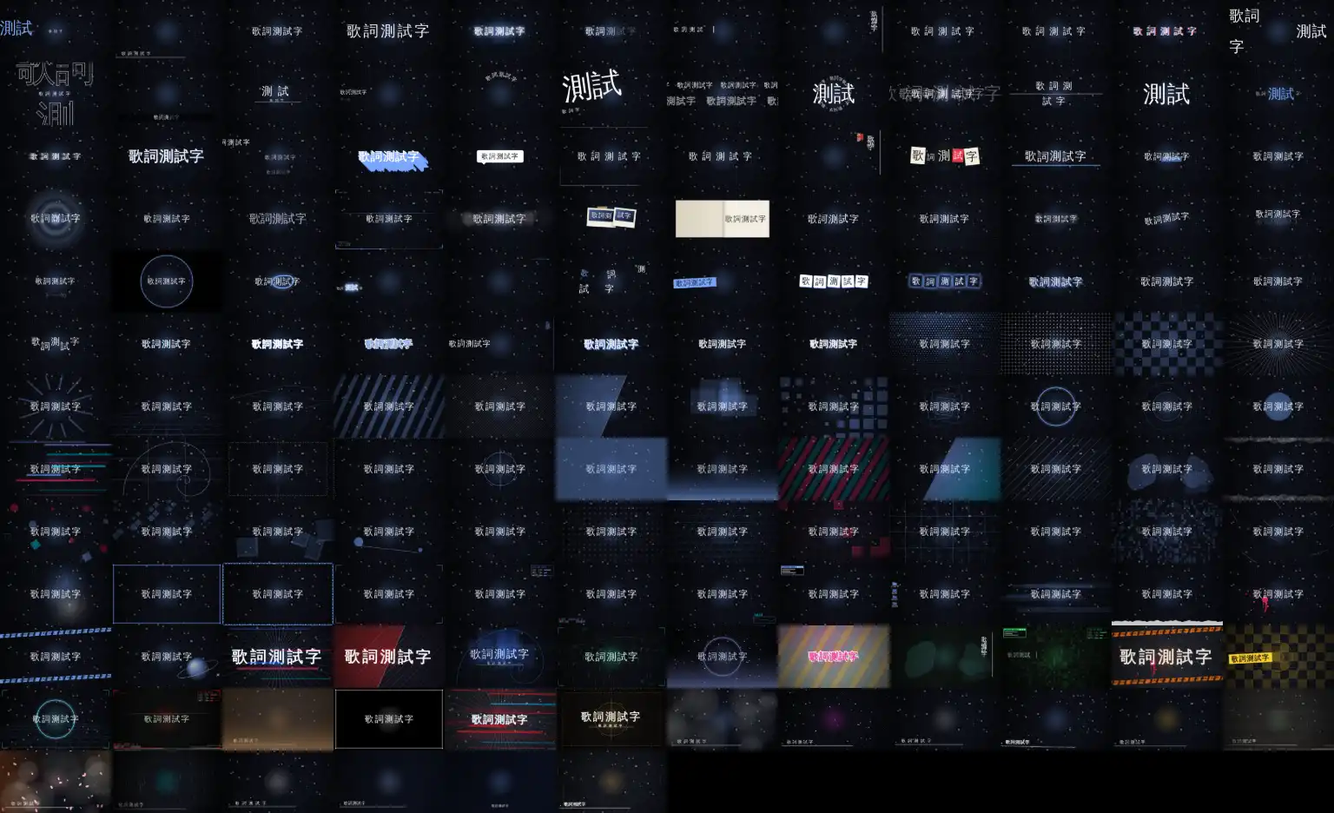
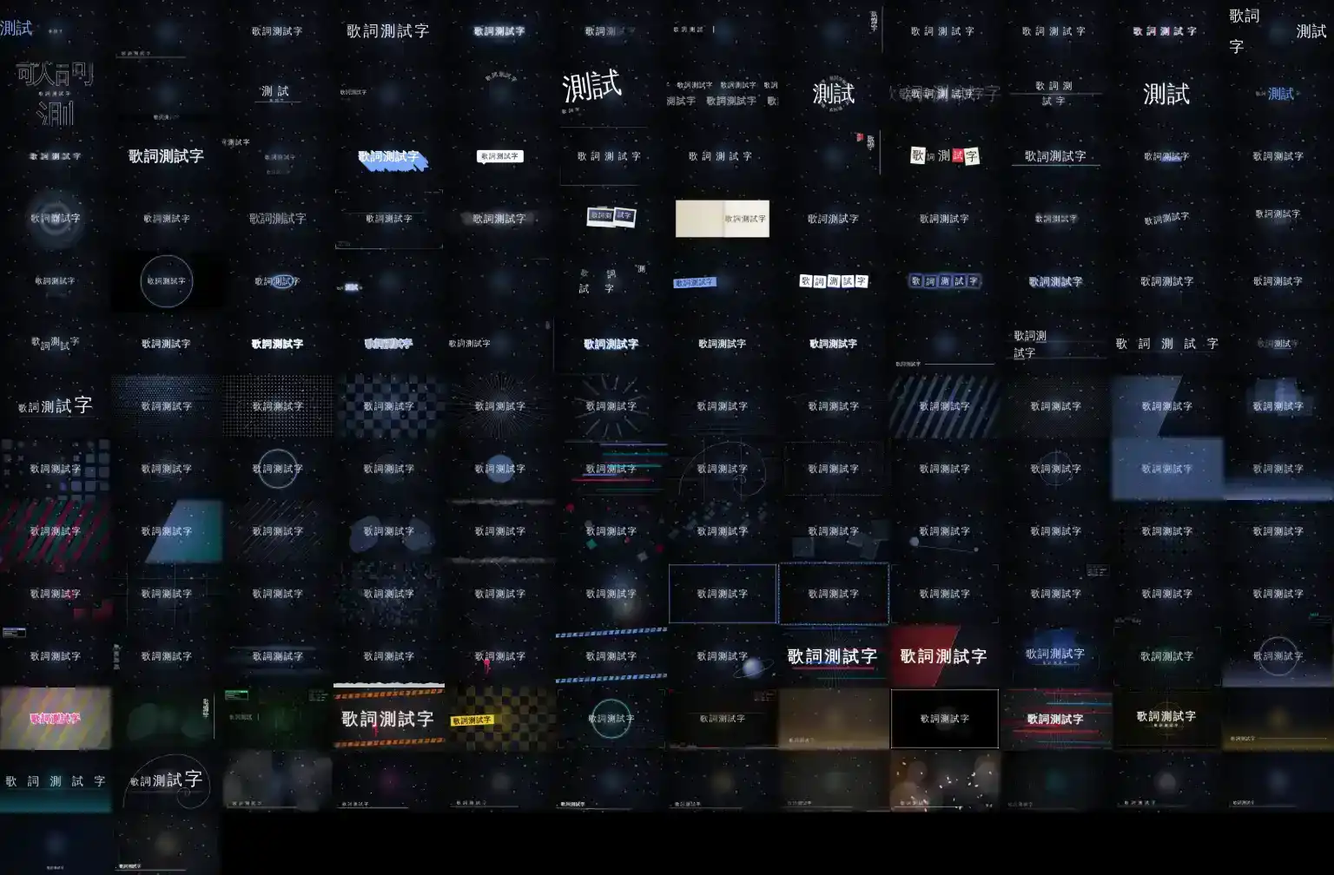
階段 3：5 個文字樣式、4 個鏡頭型持續特效、3 個風格包；package.json license 改 MIT
- @double-line／emphasis-dot／gloss-sweep／shadow-stack／split-tone
- ~cam-pull／cam-pan-l／cam-pan-r／cam-tilt-up
- 風格包 金夜／深海／單色座標（取 JIZURA schemes[0] 的 fg／accent，無背景色）
- 手冊、README、縮圖（含階段 1 五個版型）、test/styles.mjs 包數 16→19

Claude-Session: https://claude.ai/code/session_01EnX78DwoedcJ9XfRZGxrW4

diff --git a/index.html b/index.html
@@ -25,6 +25,7 @@ html,body{margin:0;height:100%;background:#050608;color:var(--c);overflow:hidden
 #L{position:absolute;inset:0}
 .w{position:absolute;inset:0}
 .ch{display:inline-block;white-space:pre}
+[data-dl]{position:relative}[data-dl]::after{content:attr(data-dl);position:absolute;left:0;top:0;white-space:pre;color:transparent;-webkit-text-stroke:.03em var(--c);paint-order:normal}
 #bar{position:fixed;top:0;left:0;right:0;display:flex;gap:8px;align-items:center;padding:8px 12px;background:rgba(10,12,20,.85);font-size:13px;z-index:5}
 button,select,input[type=file]{font:inherit;color:#fff;background:#232a44;border:1px solid #3a4470;border-radius:4px;padding:4px 10px}
 #seek{flex:1}
@@ -879,6 +880,12 @@ Object.assign(FXH,{
   A(e,[{letterSpacing:(ls-.03*fs)+"px"},{letterSpacing:(ls+.03*fs)+"px"}],{duration:2500,iterations:Infinity,direction:"alternate",easing:"ease-in-out"})})},
  "zoom-slow"(fw,dur){A(fw,[{scale:1},{scale:1.06}],{duration:dur*1000,easing:"linear"})},
  "focus-rack"(fw,dur){const l=cl(fw);if(!l.length)return;const t=dur*1000/l.length;l.forEach((c,i)=>A(c,[{filter:"blur(0)"},{filter:"blur(1.5px)",offset:.5},{filter:"blur(0)"}],{duration:t*1.6,delay:i*t,easing:"linear"}))}});
+Object.assign(FXH,{   /* 鏡頭型（概念參考 JIZURA 鏡頭，MIT）：只動字幕容器 fw，用獨立屬性 scale／translate，位移 <3% 畫面 */
+ "cam-pull"(fw,dur){A(fw,[{scale:1.06},{scale:1}],{duration:dur*1000,easing:"linear"})},
+ "cam-pan-l"(fw,dur){A(fw,[{translate:"1.5cqw 0"},{translate:"-1.5cqw 0"}],{duration:dur*1000,easing:"linear"})},
+ "cam-pan-r"(fw,dur){A(fw,[{translate:"-1.5cqw 0"},{translate:"1.5cqw 0"}],{duration:dur*1000,easing:"linear"})},
+ "cam-tilt-up"(fw,dur){A(fw,[{translate:"0 1.5cqh"},{translate:"0 -1.5cqh"}],{duration:dur*1000,easing:"linear"})}});
+FXS.push("cam-pull","cam-pan-l","cam-pan-r","cam-tilt-up");
 ENTERS.push("blur-stagger","track-in","skew-in","wipe","clock-wipe","neon-on");EXITS.push("vacuum","sweep-cover","wipe-out","clock-out");FXS.push("breathe","track-breathe","zoom-slow","focus-rack");
 /* ===== [UI-EDITOR] 預設組合表 PRESETS / 隨機化 randomize / 帶標記 SRT 的產生與匯出（tc・tag・srtText・exportSRT）；句子編輯器本體 editor() 在下方 [EXPORT] 區段 ===== */
 const PRESETS={動畫PV:{font:"圓體",pulse:.05,accent:"#7aa8ff",weight:300,spacing:.5},霓虹夜:{font:"黑體",pulse:.07,accent:"#ff2bd6",weight:300,spacing:.3,dim:60},
@@ -1575,6 +1582,7 @@ const tEls=c=>[...c.querySelectorAll("[data-t]")];
 const isV=e=>/^vertical/.test(e.style.writingMode||"");
 const charify=c=>{tEls(c).forEach(e=>{if(!isV(e)&&!e.querySelector(".ch")&&!e.children.length&&e.textContent.trim()){const t=e.textContent;e.textContent="";chars(t,e)}});return[...c.querySelectorAll(".ch")]};
 const addSh=(e,s)=>{e.style.textShadow=[e.style.textShadow,s].filter(Boolean).join(",")};
+const _lv=e=>{const c=[...e.querySelectorAll(".ch")];return c.length?c:[e]};   /* 逐字拆開時，背景裁字／偽元素要畫在每個字上（同 gradient-flow） */
 const ST={
  neon:e=>addSh(e,"0 0 .06em #fff,0 0 .3em var(--a),0 0 .7em var(--a),0 0 1.4em var(--a)"),
  "glow-soft":e=>addSh(e,"0 0 .3em rgba(255,255,255,.45),0 0 .9em color-mix(in srgb,var(--a) 70%,transparent)"),
@@ -1582,11 +1590,20 @@ const ST={
  longshadow:e=>addSh(e,Array.from({length:30},(_,i)=>`${(i+1)*.022}em ${(i+1)*.022}em 0 color-mix(in srgb,var(--a) 55%,#000)`).join(",")),
  trail:e=>addSh(e,Array.from({length:8},(_,i)=>`${-(i+1)*.05}em 0 ${(i+1)*.012}em rgba(255,255,255,${(.34-i*.04).toFixed(2)})`).join(",")),
  outline:e=>{e.style.color="transparent";e.style.webkitTextStroke=".04em var(--c)"},
- stamp:e=>Object.assign(e.style,{border:".07em solid var(--a)",color:"var(--a)",padding:".08em .3em",width:"fit-content",marginInline:"auto",rotate:"-4deg",borderRadius:".1em"})
+ stamp:e=>Object.assign(e.style,{border:".07em solid var(--a)",color:"var(--a)",padding:".08em .3em",width:"fit-content",marginInline:"auto",rotate:"-4deg",borderRadius:".1em"}),
+ /* ---- 階段 3 新增（概念參考 JIZURA 文字加工，MIT；自行以 CSS 實作）---- */
+ "double-line":e=>{_lv(e).forEach(x=>{x.style.color="transparent";x.style.webkitTextStroke=".12em var(--a)";x.style.paintOrder="stroke fill";x.dataset.dl=x.textContent})},   /* 二重縁：外層粗描邊（強調色）＋偽元素 ::after（style.css）疊細描邊（字色） */
+ "emphasis-dot":e=>{e.style.textEmphasis="filled dot var(--a)";e.style.webkitTextEmphasis="filled dot var(--a)";e.style.textEmphasisPosition=isV(e)?"over right":"over"},
+ "shadow-stack":e=>addSh(e,".04em 0 0 color-mix(in srgb,var(--a) 70%,transparent),.08em 0 0 color-mix(in srgb,var(--a) 45%,transparent),.12em 0 0 color-mix(in srgb,var(--a) 22%,transparent)"),
+ "split-tone":e=>_lv(e).forEach(x=>{x.style.backgroundImage="linear-gradient(180deg,var(--c) 50%,var(--a) 50%)";x.style.webkitBackgroundClip=x.style.backgroundClip="text";x.style.color="transparent";x.style.webkitTextFillColor="transparent"})
 };
 const STC={
  gradient:c=>{tEls(c).filter(isV).forEach(e=>{e.style.background="linear-gradient(180deg,var(--c),var(--a))";e.style.webkitBackgroundClip=e.style.backgroundClip="text";e.style.color="transparent"});const ch=charify(c),n=Math.max(1,ch.length-1);ch.forEach((x,i)=>{x.style.color=`color-mix(in srgb,var(--c) ${Math.round(100-i/n*100)}%,var(--a))`})},
  karaoke:(c,sb,dur)=>{tEls(c).filter(isV).forEach(e=>{e.style.background="linear-gradient(180deg,#fff 50%,rgba(255,255,255,.3) 50%)";e.style.backgroundSize="100% 200%";e.style.webkitBackgroundClip=e.style.backgroundClip="text";e.style.color="transparent";A(e,[{backgroundPosition:"0 100%"},{backgroundPosition:"0 0"}],{duration:dur*1000,easing:"linear"})});const ch=charify(c),n=Math.max(1,ch.length),t=dur*1000/n;ch.forEach((x,i)=>{x.style.color="rgba(255,255,255,.3)";A(x,[{color:"rgba(255,255,255,.3)"},{color:"#fff",textShadow:"0 0 .4em var(--a)"}],{duration:t,delay:i*t,easing:"linear"})})},
+ "gloss-sweep":(c,sb,dur)=>{   /* 光澤掃過：每個字畫亮帶漸層（不畫在父層），逐字延遲掃一次，不循環 */
+  const ch=charify(c),els=ch.length?ch:tEls(c).filter(isV);
+  els.forEach((x,i)=>{x.style.backgroundImage="linear-gradient(100deg,var(--c) 38%,#fff 50%,var(--c) 62%)";x.style.backgroundSize="300% 100%";x.style.webkitBackgroundClip=x.style.backgroundClip="text";x.style.color="transparent";x.style.webkitTextFillColor="transparent";
+   A(x,[{backgroundPosition:"100% 0"},{backgroundPosition:"0% 0"}],{duration:900,delay:D()*.6+i*70,easing:"ease-in-out"})})},
  glitch:c=>{const b="drop-shadow(-.04em 0 rgba(255,40,90,.85)) drop-shadow(.04em 0 rgba(0,220,255,.85))",s="steps(1,end)";
   tEls(c).forEach((e,i)=>A(e,[{translate:"0 0",filter:"none",easing:s},{translate:".02em 0",filter:b,offset:.06,easing:s},{translate:"-.03em .01em",filter:b,offset:.09,easing:s},{translate:"0 0",filter:"none",offset:.12,easing:s},{translate:"-.015em 0",filter:b,offset:.56,easing:s},{translate:"0 0",filter:"none",offset:.59}],{duration:1800+i*230,iterations:Infinity}))}
 };
@@ -2200,6 +2217,13 @@ regPack("歇斯底里之夜",{font:"英文展示",weight:800,spacing:.04,color:"
  sceneAll:"glitch-bars:70,burst:45,smear-brush:40",layoutPool:"noise-text,glitch,shatter-text,crayon-shatter,flash-words",beatShake:3,beatTilt:2,beatHue:30,beatZoom:5});
 regPack("戒尺",{font:"明體",weight:600,spacing:.15,color:"#f4efe6",accent:"#c8a24a",bgMode:"solid",bgColor:"#14110d",pulse:.02,bounce:4,flash:0,trans:"crossfade",particles:0,grain:.05,
  sceneAll:"ruler:55,dashed-lines:45,target:35",layoutPool:"poster,subtitle-box,annotate,strip,lowerleft"});
+/* 階段 3：JIZURA 風格取 schemes[0] 的 fg／accent（不帶背景色），字體只用 FONTS 既有鍵，版型池用階段 1 的 LAB 版型（概念參考 JIZURA，MIT） */
+regPack("金夜",{font:"明體",weight:500,spacing:.22,color:"#F3E7C4",accent:"#D4AF37",dim:50,pulse:.02,bounce:3,flash:0,speed:.85,trans:"crossfade",particles:0,vignette:.5,
+ sceneAll:"dashed-lines:30,gradient-fade:35",layoutPool:"margin,baseline,line-focus"});
+regPack("深海",{font:"圓體",weight:300,spacing:.3,color:"#E4FAFF",accent:"#1FD2E6",dim:55,pulse:.02,bounce:3,flash:0,speed:.85,trans:"crossfade",particles:0,vignette:.4,
+ sceneAll:"flow-lines:35,gradient-fade:35",layoutPool:"full-track,margin"});
+regPack("單色座標",{font:"等寬",weight:400,spacing:.12,color:"#FFFFFF",accent:"#FFFFFF",dim:50,pulse:.02,bounce:0,flash:0,trans:"cut",particles:0,
+ sceneAll:"guides:35",layoutPool:"scale-steps,baseline"});
 /* 離開風格包時要還原的欄位（只在「上一個套用的是風格包」時才還原，舊預設之間的行為完全不變） */
 const PACK_KEEP=["color","bgMode","bgColor","ghostOn","ghostA","ghostB","sceneAll","layoutPool","beatShake","beatZoom","beatTilt","beatHue","dim","vignette","speed","flash","bounce","pulse","weight","spacing","accent","auto","textShadow","lock"];
 
@@ -2550,7 +2574,7 @@ if(RENDER){
 window.__ready=document.fonts.ready.then(()=>true);
 }else requestAnimationFrame(t=>{lastP=t;loop(t)});
 /* ===== [THUMBS-IDX] 縮圖精靈圖索引（由 test/make-thumbs.mjs 產生，請勿手改；邏輯在 28-thumbs.js）===== */
-var TH_DATA={w:128,h:72,cols:12,v:"9b7bb427",idx:"lay:split,lay:lowerleft,lay:bounce,lay:slam,lay:neon,lay:karaoke,lay:typewriter,lay:vertical,lay:blurfocus,lay:wipe,lay:glitch,lay:stack,lay:outline-big,lay:subtitle-box,lay:poster,lay:scroll,lay:orbit,lay:diagonal,lay:marquee,lay:circle-badge,lay:zoom-tunnel,lay:split-screen,lay:flash-words,lay:keyword,lay:trail,lay:text-mask,lay:danmaku,lay:longshadow,lay:bubble,lay:border-run,lay:blinds,lay:hanko,lay:collage,lay:handwrite,lay:marker,lay:center,lay:ripple-pool,lay:constellation,lay:particle-form,lay:hud-frame,lay:parallax-depth,lay:polaroid,lay:page-flip,lay:ink-bleed,lay:laser-scan,lay:split-flap,lay:wave-path,lay:mirror-reflect,lay:cylinder,lay:iris-frame,lay:annotate,lay:pv-lyric,lay:pv-vertical,lay:scatter,lay:strip,lay:cards,lay:glow-cards,lay:layered,lay:falling,lay:formula,lay:staggered-text,lay:noise-text,lay:victim-outline,lay:cute-outline,lay:vertical-sub,lay:hero-text,lay:shatter-text,lay:crayon-shatter,scene:halftone,scene:dots,scene:checker,scene:burst,scene:radial-rects,scene:perspective-grid,scene:flow-lines,scene:stripes,scene:hatch,scene:diag-split,scene:blocks,scene:breathing-blocks,scene:squares,scene:glow-ring,scene:rings,scene:pulse-circle,scene:glitch-bars,scene:guides,scene:dashed-lines,scene:ruler,scene:target,scene:color-wash,scene:gradient-fade,scene:pink-stripes,scene:diag-fill,scene:diag-structure,scene:organic-blob,scene:edge-clouds,scene:scattered-shapes,scene:diamond-shapes,scene:shadow-shapes,scene:balancing-circles,scene:web-lines,scene:cross-pattern,scene:triangle-grid,scene:pink-grid,scene:jigsaw-grid,scene:texture-bg,scene:pixel-bg,scene:star-trail,scene:light-spot,scene:screen-border,scene:scalloped-border,scene:hud-corners,scene:hud-info,scene:hud-status,scene:data-monitors,scene:pixel-window,scene:desktop-icon,scene:smear-brush,scene:paper-tear,scene:blood-splatter,scene:crime-tape,scene:planet,pack:藍色衝擊,pack:斬擊,pack:藍色構成,pack:城市文字雨,pack:夜色,pack:波普,pack:青墨,pack:電腦,pack:戰場,pack:幾何,pack:全息,pack:賽博監控,pack:情緒電影,pack:剪影極簡,pack:歇斯底里之夜,pack:戒尺,preset:動畫PV,preset:霓虹夜,preset:簡約明體,preset:強烈節奏,preset:遊戲PV,preset:復古VHS,preset:櫻花日系,preset:賽博龐克,preset:極簡海報,preset:仿PV歌詞,preset:電影字幕（底部置中）,preset:街頭拼貼"};
+var TH_DATA={w:128,h:72,cols:12,v:"e53f54a0",idx:"lay:split,lay:lowerleft,lay:bounce,lay:slam,lay:neon,lay:karaoke,lay:typewriter,lay:vertical,lay:blurfocus,lay:wipe,lay:glitch,lay:stack,lay:outline-big,lay:subtitle-box,lay:poster,lay:scroll,lay:orbit,lay:diagonal,lay:marquee,lay:circle-badge,lay:zoom-tunnel,lay:split-screen,lay:flash-words,lay:keyword,lay:trail,lay:text-mask,lay:danmaku,lay:longshadow,lay:bubble,lay:border-run,lay:blinds,lay:hanko,lay:collage,lay:handwrite,lay:marker,lay:center,lay:ripple-pool,lay:constellation,lay:particle-form,lay:hud-frame,lay:parallax-depth,lay:polaroid,lay:page-flip,lay:ink-bleed,lay:laser-scan,lay:split-flap,lay:wave-path,lay:mirror-reflect,lay:cylinder,lay:iris-frame,lay:annotate,lay:pv-lyric,lay:pv-vertical,lay:scatter,lay:strip,lay:cards,lay:glow-cards,lay:layered,lay:falling,lay:formula,lay:staggered-text,lay:noise-text,lay:victim-outline,lay:cute-outline,lay:vertical-sub,lay:hero-text,lay:shatter-text,lay:crayon-shatter,lay:margin,lay:baseline,lay:full-track,lay:line-focus,lay:scale-steps,scene:halftone,scene:dots,scene:checker,scene:burst,scene:radial-rects,scene:perspective-grid,scene:flow-lines,scene:stripes,scene:hatch,scene:diag-split,scene:blocks,scene:breathing-blocks,scene:squares,scene:glow-ring,scene:rings,scene:pulse-circle,scene:glitch-bars,scene:guides,scene:dashed-lines,scene:ruler,scene:target,scene:color-wash,scene:gradient-fade,scene:pink-stripes,scene:diag-fill,scene:diag-structure,scene:organic-blob,scene:edge-clouds,scene:scattered-shapes,scene:diamond-shapes,scene:shadow-shapes,scene:balancing-circles,scene:web-lines,scene:cross-pattern,scene:triangle-grid,scene:pink-grid,scene:jigsaw-grid,scene:texture-bg,scene:pixel-bg,scene:star-trail,scene:light-spot,scene:screen-border,scene:scalloped-border,scene:hud-corners,scene:hud-info,scene:hud-status,scene:data-monitors,scene:pixel-window,scene:desktop-icon,scene:smear-brush,scene:paper-tear,scene:blood-splatter,scene:crime-tape,scene:planet,pack:藍色衝擊,pack:斬擊,pack:藍色構成,pack:城市文字雨,pack:夜色,pack:波普,pack:青墨,pack:電腦,pack:戰場,pack:幾何,pack:全息,pack:賽博監控,pack:情緒電影,pack:剪影極簡,pack:歇斯底里之夜,pack:戒尺,pack:金夜,pack:深海,pack:單色座標,preset:動畫PV,preset:霓虹夜,preset:簡約明體,preset:強烈節奏,preset:遊戲PV,preset:復古VHS,preset:櫻花日系,preset:賽博龐克,preset:極簡海報,preset:仿PV歌詞,preset:電影字幕（底部置中）,preset:街頭拼貼"};
 /* ===== [THUMBS] 縮圖預覽：版型／場景層／風格包／預設組合 的「懸停預覽」與「縮圖挑選窗」。純 UI 輔助，不碰 CONFIG／subs／畫面渲染，離線渲染（RENDER）完全不啟用。
    資料：thumbs/sheet.webp（單張精靈圖，首次需要時才載入；檔案不在就自動略過、功能照常）＋ 28-thumbs-idx.js（TH_DATA：名稱→格子位置，兩者都由 node test/make-thumbs.mjs 產生，勿手改）。
    用法（其他檔案只需這兩種，不依賴載入順序）：

diff --git a/src/28-thumbs-idx.js b/src/28-thumbs-idx.js
@@ -1,2 +1,2 @@
 /* ===== [THUMBS-IDX] 縮圖精靈圖索引（由 test/make-thumbs.mjs 產生，請勿手改；邏輯在 28-thumbs.js）===== */
-var TH_DATA={w:128,h:72,cols:12,v:"9b7bb427",idx:"lay:split,lay:lowerleft,lay:bounce,lay:slam,lay:neon,lay:karaoke,lay:typewriter,lay:vertical,lay:blurfocus,lay:wipe,lay:glitch,lay:stack,lay:outline-big,lay:subtitle-box,lay:poster,lay:scroll,lay:orbit,lay:diagonal,lay:marquee,lay:circle-badge,lay:zoom-tunnel,lay:split-screen,lay:flash-words,lay:keyword,lay:trail,lay:text-mask,lay:danmaku,lay:longshadow,lay:bubble,lay:border-run,lay:blinds,lay:hanko,lay:collage,lay:handwrite,lay:marker,lay:center,lay:ripple-pool,lay:constellation,lay:particle-form,lay:hud-frame,lay:parallax-depth,lay:polaroid,lay:page-flip,lay:ink-bleed,lay:laser-scan,lay:split-flap,lay:wave-path,lay:mirror-reflect,lay:cylinder,lay:iris-frame,lay:annotate,lay:pv-lyric,lay:pv-vertical,lay:scatter,lay:strip,lay:cards,lay:glow-cards,lay:layered,lay:falling,lay:formula,lay:staggered-text,lay:noise-text,lay:victim-outline,lay:cute-outline,lay:vertical-sub,lay:hero-text,lay:shatter-text,lay:crayon-shatter,scene:halftone,scene:dots,scene:checker,scene:burst,scene:radial-rects,scene:perspective-grid,scene:flow-lines,scene:stripes,scene:hatch,scene:diag-split,scene:blocks,scene:breathing-blocks,scene:squares,scene:glow-ring,scene:rings,scene:pulse-circle,scene:glitch-bars,scene:guides,scene:dashed-lines,scene:ruler,scene:target,scene:color-wash,scene:gradient-fade,scene:pink-stripes,scene:diag-fill,scene:diag-structure,scene:organic-blob,scene:edge-clouds,scene:scattered-shapes,scene:diamond-shapes,scene:shadow-shapes,scene:balancing-circles,scene:web-lines,scene:cross-pattern,scene:triangle-grid,scene:pink-grid,scene:jigsaw-grid,scene:texture-bg,scene:pixel-bg,scene:star-trail,scene:light-spot,scene:screen-border,scene:scalloped-border,scene:hud-corners,scene:hud-info,scene:hud-status,scene:data-monitors,scene:pixel-window,scene:desktop-icon,scene:smear-brush,scene:paper-tear,scene:blood-splatter,scene:crime-tape,scene:planet,pack:藍色衝擊,pack:斬擊,pack:藍色構成,pack:城市文字雨,pack:夜色,pack:波普,pack:青墨,pack:電腦,pack:戰場,pack:幾何,pack:全息,pack:賽博監控,pack:情緒電影,pack:剪影極簡,pack:歇斯底里之夜,pack:戒尺,preset:動畫PV,preset:霓虹夜,preset:簡約明體,preset:強烈節奏,preset:遊戲PV,preset:復古VHS,preset:櫻花日系,preset:賽博龐克,preset:極簡海報,preset:仿PV歌詞,preset:電影字幕（底部置中）,preset:街頭拼貼"};
+var TH_DATA={w:128,h:72,cols:12,v:"e53f54a0",idx:"lay:split,lay:lowerleft,lay:bounce,lay:slam,lay:neon,lay:karaoke,lay:typewriter,lay:vertical,lay:blurfocus,lay:wipe,lay:glitch,lay:stack,lay:outline-big,lay:subtitle-box,lay:poster,lay:scroll,lay:orbit,lay:diagonal,lay:marquee,lay:circle-badge,lay:zoom-tunnel,lay:split-screen,lay:flash-words,lay:keyword,lay:trail,lay:text-mask,lay:danmaku,lay:longshadow,lay:bubble,lay:border-run,lay:blinds,lay:hanko,lay:collage,lay:handwrite,lay:marker,lay:center,lay:ripple-pool,lay:constellation,lay:particle-form,lay:hud-frame,lay:parallax-depth,lay:polaroid,lay:page-flip,lay:ink-bleed,lay:laser-scan,lay:split-flap,lay:wave-path,lay:mirror-reflect,lay:cylinder,lay:iris-frame,lay:annotate,lay:pv-lyric,lay:pv-vertical,lay:scatter,lay:strip,lay:cards,lay:glow-cards,lay:layered,lay:falling,lay:formula,lay:staggered-text,lay:noise-text,lay:victim-outline,lay:cute-outline,lay:vertical-sub,lay:hero-text,lay:shatter-text,lay:crayon-shatter,lay:margin,lay:baseline,lay:full-track,lay:line-focus,lay:scale-steps,scene:halftone,scene:dots,scene:checker,scene:burst,scene:radial-rects,scene:perspective-grid,scene:flow-lines,scene:stripes,scene:hatch,scene:diag-split,scene:blocks,scene:breathing-blocks,scene:squares,scene:glow-ring,scene:rings,scene:pulse-circle,scene:glitch-bars,scene:guides,scene:dashed-lines,scene:ruler,scene:target,scene:color-wash,scene:gradient-fade,scene:pink-stripes,scene:diag-fill,scene:diag-structure,scene:organic-blob,scene:edge-clouds,scene:scattered-shapes,scene:diamond-shapes,scene:shadow-shapes,scene:balancing-circles,scene:web-lines,scene:cross-pattern,scene:triangle-grid,scene:pink-grid,scene:jigsaw-grid,scene:texture-bg,scene:pixel-bg,scene:star-trail,scene:light-spot,scene:screen-border,scene:scalloped-border,scene:hud-corners,scene:hud-info,scene:hud-status,scene:data-monitors,scene:pixel-window,scene:desktop-icon,scene:smear-brush,scene:paper-tear,scene:blood-splatter,scene:crime-tape,scene:planet,pack:藍色衝擊,pack:斬擊,pack:藍色構成,pack:城市文字雨,pack:夜色,pack:波普,pack:青墨,pack:電腦,pack:戰場,pack:幾何,pack:全息,pack:賽博監控,pack:情緒電影,pack:剪影極簡,pack:歇斯底里之夜,pack:戒尺,pack:金夜,pack:深海,pack:單色座標,preset:動畫PV,preset:霓虹夜,preset:簡約明體,preset:強烈節奏,preset:遊戲PV,preset:復古VHS,preset:櫻花日系,preset:賽博龐克,preset:極簡海報,preset:仿PV歌詞,preset:電影字幕（底部置中）,preset:街頭拼貼"};

diff --git a/src/18-style.js b/src/18-style.js
@@ -3,6 +3,7 @@ const tEls=c=>[...c.querySelectorAll("[data-t]")];
 const isV=e=>/^vertical/.test(e.style.writingMode||"");
 const charify=c=>{tEls(c).forEach(e=>{if(!isV(e)&&!e.querySelector(".ch")&&!e.children.length&&e.textContent.trim()){const t=e.textContent;e.textContent="";chars(t,e)}});return[...c.querySelectorAll(".ch")]};
 const addSh=(e,s)=>{e.style.textShadow=[e.style.textShadow,s].filter(Boolean).join(",")};
+const _lv=e=>{const c=[...e.querySelectorAll(".ch")];return c.length?c:[e]};   /* 逐字拆開時，背景裁字／偽元素要畫在每個字上（同 gradient-flow） */
 const ST={
  neon:e=>addSh(e,"0 0 .06em #fff,0 0 .3em var(--a),0 0 .7em var(--a),0 0 1.4em var(--a)"),
  "glow-soft":e=>addSh(e,"0 0 .3em rgba(255,255,255,.45),0 0 .9em color-mix(in srgb,var(--a) 70%,transparent)"),
@@ -10,11 +11,20 @@ const ST={
  longshadow:e=>addSh(e,Array.from({length:30},(_,i)=>`${(i+1)*.022}em ${(i+1)*.022}em 0 color-mix(in srgb,var(--a) 55%,#000)`).join(",")),
  trail:e=>addSh(e,Array.from({length:8},(_,i)=>`${-(i+1)*.05}em 0 ${(i+1)*.012}em rgba(255,255,255,${(.34-i*.04).toFixed(2)})`).join(",")),
  outline:e=>{e.style.color="transparent";e.style.webkitTextStroke=".04em var(--c)"},
- stamp:e=>Object.assign(e.style,{border:".07em solid var(--a)",color:"var(--a)",padding:".08em .3em",width:"fit-content",marginInline:"auto",rotate:"-4deg",borderRadius:".1em"})
+ stamp:e=>Object.assign(e.style,{border:".07em solid var(--a)",color:"var(--a)",padding:".08em .3em",width:"fit-content",marginInline:"auto",rotate:"-4deg",borderRadius:".1em"}),
+ /* ---- 階段 3 新增（概念參考 JIZURA 文字加工，MIT；自行以 CSS 實作）---- */
+ "double-line":e=>{_lv(e).forEach(x=>{x.style.color="transparent";x.style.webkitTextStroke=".12em var(--a)";x.style.paintOrder="stroke fill";x.dataset.dl=x.textContent})},   /* 二重縁：外層粗描邊（強調色）＋偽元素 ::after（style.css）疊細描邊（字色） */
+ "emphasis-dot":e=>{e.style.textEmphasis="filled dot var(--a)";e.style.webkitTextEmphasis="filled dot var(--a)";e.style.textEmphasisPosition=isV(e)?"over right":"over"},
+ "shadow-stack":e=>addSh(e,".04em 0 0 color-mix(in srgb,var(--a) 70%,transparent),.08em 0 0 color-mix(in srgb,var(--a) 45%,transparent),.12em 0 0 color-mix(in srgb,var(--a) 22%,transparent)"),
+ "split-tone":e=>_lv(e).forEach(x=>{x.style.backgroundImage="linear-gradient(180deg,var(--c) 50%,var(--a) 50%)";x.style.webkitBackgroundClip=x.style.backgroundClip="text";x.style.color="transparent";x.style.webkitTextFillColor="transparent"})
 };
 const STC={
  gradient:c=>{tEls(c).filter(isV).forEach(e=>{e.style.background="linear-gradient(180deg,var(--c),var(--a))";e.style.webkitBackgroundClip=e.style.backgroundClip="text";e.style.color="transparent"});const ch=charify(c),n=Math.max(1,ch.length-1);ch.forEach((x,i)=>{x.style.color=`color-mix(in srgb,var(--c) ${Math.round(100-i/n*100)}%,var(--a))`})},
  karaoke:(c,sb,dur)=>{tEls(c).filter(isV).forEach(e=>{e.style.background="linear-gradient(180deg,#fff 50%,rgba(255,255,255,.3) 50%)";e.style.backgroundSize="100% 200%";e.style.webkitBackgroundClip=e.style.backgroundClip="text";e.style.color="transparent";A(e,[{backgroundPosition:"0 100%"},{backgroundPosition:"0 0"}],{duration:dur*1000,easing:"linear"})});const ch=charify(c),n=Math.max(1,ch.length),t=dur*1000/n;ch.forEach((x,i)=>{x.style.color="rgba(255,255,255,.3)";A(x,[{color:"rgba(255,255,255,.3)"},{color:"#fff",textShadow:"0 0 .4em var(--a)"}],{duration:t,delay:i*t,easing:"linear"})})},
+ "gloss-sweep":(c,sb,dur)=>{   /* 光澤掃過：每個字畫亮帶漸層（不畫在父層），逐字延遲掃一次，不循環 */
+  const ch=charify(c),els=ch.length?ch:tEls(c).filter(isV);
+  els.forEach((x,i)=>{x.style.backgroundImage="linear-gradient(100deg,var(--c) 38%,#fff 50%,var(--c) 62%)";x.style.backgroundSize="300% 100%";x.style.webkitBackgroundClip=x.style.backgroundClip="text";x.style.color="transparent";x.style.webkitTextFillColor="transparent";
+   A(x,[{backgroundPosition:"100% 0"},{backgroundPosition:"0% 0"}],{duration:900,delay:D()*.6+i*70,easing:"ease-in-out"})})},
  glitch:c=>{const b="drop-shadow(-.04em 0 rgba(255,40,90,.85)) drop-shadow(.04em 0 rgba(0,220,255,.85))",s="steps(1,end)";
   tEls(c).forEach((e,i)=>A(e,[{translate:"0 0",filter:"none",easing:s},{translate:".02em 0",filter:b,offset:.06,easing:s},{translate:"-.03em .01em",filter:b,offset:.09,easing:s},{translate:"0 0",filter:"none",offset:.12,easing:s},{translate:"-.015em 0",filter:b,offset:.56,easing:s},{translate:"0 0",filter:"none",offset:.59}],{duration:1800+i*230,iterations:Infinity}))}
 };

diff --git a/src/23-styles.js b/src/23-styles.js
@@ -36,6 +36,13 @@ regPack("歇斯底里之夜",{font:"英文展示",weight:800,spacing:.04,color:"
  sceneAll:"glitch-bars:70,burst:45,smear-brush:40",layoutPool:"noise-text,glitch,shatter-text,crayon-shatter,flash-words",beatShake:3,beatTilt:2,beatHue:30,beatZoom:5});
 regPack("戒尺",{font:"明體",weight:600,spacing:.15,color:"#f4efe6",accent:"#c8a24a",bgMode:"solid",bgColor:"#14110d",pulse:.02,bounce:4,flash:0,trans:"crossfade",particles:0,grain:.05,
  sceneAll:"ruler:55,dashed-lines:45,target:35",layoutPool:"poster,subtitle-box,annotate,strip,lowerleft"});
+/* 階段 3：JIZURA 風格取 schemes[0] 的 fg／accent（不帶背景色），字體只用 FONTS 既有鍵，版型池用階段 1 的 LAB 版型（概念參考 JIZURA，MIT） */
+regPack("金夜",{font:"明體",weight:500,spacing:.22,color:"#F3E7C4",accent:"#D4AF37",dim:50,pulse:.02,bounce:3,flash:0,speed:.85,trans:"crossfade",particles:0,vignette:.5,
+ sceneAll:"dashed-lines:30,gradient-fade:35",layoutPool:"margin,baseline,line-focus"});
+regPack("深海",{font:"圓體",weight:300,spacing:.3,color:"#E4FAFF",accent:"#1FD2E6",dim:55,pulse:.02,bounce:3,flash:0,speed:.85,trans:"crossfade",particles:0,vignette:.4,
+ sceneAll:"flow-lines:35,gradient-fade:35",layoutPool:"full-track,margin"});
+regPack("單色座標",{font:"等寬",weight:400,spacing:.12,color:"#FFFFFF",accent:"#FFFFFF",dim:50,pulse:.02,bounce:0,flash:0,trans:"cut",particles:0,
+ sceneAll:"guides:35",layoutPool:"scale-steps,baseline"});
 /* 離開風格包時要還原的欄位（只在「上一個套用的是風格包」時才還原，舊預設之間的行為完全不變） */
 const PACK_KEEP=["color","bgMode","bgColor","ghostOn","ghostA","ghostB","sceneAll","layoutPool","beatShake","beatZoom","beatTilt","beatHue","dim","vignette","speed","flash","bounce","pulse","weight","spacing","accent","auto","textShadow","lock"];
 

diff --git a/src/11-fx-enter-exit.js b/src/11-fx-enter-exit.js
@@ -63,4 +63,10 @@ Object.assign(FXH,{
   A(e,[{letterSpacing:(ls-.03*fs)+"px"},{letterSpacing:(ls+.03*fs)+"px"}],{duration:2500,iterations:Infinity,direction:"alternate",easing:"ease-in-out"})})},
  "zoom-slow"(fw,dur){A(fw,[{scale:1},{scale:1.06}],{duration:dur*1000,easing:"linear"})},
  "focus-rack"(fw,dur){const l=cl(fw);if(!l.length)return;const t=dur*1000/l.length;l.forEach((c,i)=>A(c,[{filter:"blur(0)"},{filter:"blur(1.5px)",offset:.5},{filter:"blur(0)"}],{duration:t*1.6,delay:i*t,easing:"linear"}))}});
+Object.assign(FXH,{   /* 鏡頭型（概念參考 JIZURA 鏡頭，MIT）：只動字幕容器 fw，用獨立屬性 scale／translate，位移 <3% 畫面 */
+ "cam-pull"(fw,dur){A(fw,[{scale:1.06},{scale:1}],{duration:dur*1000,easing:"linear"})},
+ "cam-pan-l"(fw,dur){A(fw,[{translate:"1.5cqw 0"},{translate:"-1.5cqw 0"}],{duration:dur*1000,easing:"linear"})},
+ "cam-pan-r"(fw,dur){A(fw,[{translate:"-1.5cqw 0"},{translate:"1.5cqw 0"}],{duration:dur*1000,easing:"linear"})},
+ "cam-tilt-up"(fw,dur){A(fw,[{translate:"0 1.5cqh"},{translate:"0 -1.5cqh"}],{duration:dur*1000,easing:"linear"})}});
+FXS.push("cam-pull","cam-pan-l","cam-pan-r","cam-tilt-up");
 ENTERS.push("blur-stagger","track-in","skew-in","wipe","clock-wipe","neon-on");EXITS.push("vacuum","sweep-cover","wipe-out","clock-out");FXS.push("breathe","track-breathe","zoom-slow","focus-rack");

diff --git a/src/style.css b/src/style.css
@@ -10,6 +10,7 @@ html,body{margin:0;height:100%;background:#050608;color:var(--c);overflow:hidden
 #L{position:absolute;inset:0}
 .w{position:absolute;inset:0}
 .ch{display:inline-block;white-space:pre}
+[data-dl]{position:relative}[data-dl]::after{content:attr(data-dl);position:absolute;left:0;top:0;white-space:pre;color:transparent;-webkit-text-stroke:.03em var(--c);paint-order:normal}
 #bar{position:fixed;top:0;left:0;right:0;display:flex;gap:8px;align-items:center;padding:8px 12px;background:rgba(10,12,20,.85);font-size:13px;z-index:5}
 button,select,input[type=file]{font:inherit;color:#fff;background:#232a44;border:1px solid #3a4470;border-radius:4px;padding:4px 10px}
 #seek{flex:1}

diff --git a/動態歌詞字幕工具_功能手冊與SRT標記指南.md b/動態歌詞字幕工具_功能手冊與SRT標記指南.md
@@ -2,7 +2,7 @@
 
 > 給 AI 助手（Gemini）閱讀的規格書。目的：讀完後，能根據使用者提供的歌詞 SRT 與用途（例如 MAD 上字幕），為每一句選擇合適的版型、動畫與特效，輸出可直接匯入本工具的「帶標記 SRT」，並建議全域設定。
 > 本文只列出**實際存在**的名稱（已對照目前的 `index.html` 核對）。凡不在清單內的名稱一律不要使用（工具遇到未知版型會退回 `lowerleft`，未知進退場／特效可能無效）。
-> 目前共 **53 種版型**、21 種進場、12 種退場、15 種持續特效、10 種逐字樣式。
+> 目前共 **53 種版型**、21 種進場、12 種退場、19 種持續特效、15 種逐字樣式。
 > **先讀第 0 節（30 秒速讀）**，需要查名稱與細節再看第 3–8 節。
 
 ---
@@ -221,13 +221,13 @@
 
 ## 5. 持續特效（`~`，每句至多一個）
 
-`float`（漂浮）`shake`（抖動）`flicker`（閃爍）`rainbow`（彩虹色）`wave`（波動）`shimmer`（流光掃過）`gradient-flow`（漸層流動）`chromatic`（色差抖動，隨 BPM）`outline-pulse`（輪廓光隨拍脈動）`highlight-word`（逐字依序亮起）`stopmotion`（定格動畫感）`breathe`（呼吸：整句微微放大縮小）`track-breathe`（字距輕微呼吸）`zoom-slow`（整句在句子時間內慢慢推近）`focus-rack`（逐字依序輕微失焦再對焦）
+`float`（漂浮）`shake`（抖動）`flicker`（閃爍）`rainbow`（彩虹色）`wave`（波動）`shimmer`（流光掃過）`gradient-flow`（漸層流動）`chromatic`（色差抖動，隨 BPM）`outline-pulse`（輪廓光隨拍脈動）`highlight-word`（逐字依序亮起）`stopmotion`（定格動畫感）`breathe`（呼吸：整句微微放大縮小）`track-breathe`（字距輕微呼吸）`zoom-slow`（整句在句子時間內慢慢推近）`focus-rack`（逐字依序輕微失焦再對焦）`cam-pull`（鏡頭拉遠：整句 1.06→1）`cam-pan-l`（鏡頭左移）`cam-pan-r`（鏡頭右移）`cam-tilt-up`（鏡頭上仰；三種平移量皆不到畫面寬度的 3%）
 
 ---
 
 ## 6. 樣式（`@`，可逗號疊加，單句最多 3 個）
 
-`neon` 霓虹、`glow-soft` 柔光、`outline` 空心、`chromatic` 色差、`gradient` 漸層、`longshadow` 長影、`trail` 拖影、`stamp` 蓋章、`glitch` 訊號閃爍、`karaoke` 逐字變亮。
+`neon` 霓虹、`glow-soft` 柔光、`outline` 空心、`chromatic` 色差、`gradient` 漸層、`longshadow` 長影、`trail` 拖影、`stamp` 蓋章、`glitch` 訊號閃爍、`karaoke` 逐字變亮、`double-line` 二重縁（粗外框＋細內線）、`emphasis-dot` 傍點（字上加圓點，直式在右側）、`gloss-sweep` 光澤掃過（逐字亮帶掃一次）、`shadow-stack` 多重影（三層水平漸淡）、`split-tone` 上下二色。
 
 限制：
 - `karaoke` 與 `gradient` 同用時以 `karaoke` 為準。
@@ -377,4 +377,4 @@
 
 - **場景層 `&`**：寫法範例 `#center&halftone:60:1.5,burst 歌詞`；參數順序 `名稱:強度:速度:節拍連動:X偏移:Y偏移`。已確認存在的場景名稱：`halftone`、`burst`；其他以工具編輯器「＋場景」挑選窗為準。`&` 與 `~`、`^`、`@` 同時出現時的先後順序尚未確認，混用前請先請使用者提供範例。
 - **節拍後製**：全域欄位 `beatShake`、`beatZoom`、`beatTilt`、`beatHue`；單句覆寫 `&bfx-shake:3`、`&bfx-off`。
-- **風格包**：面板一鍵套用（16 個），內容為調色盤＋字體＋全域底層場景（`sceneAll`）＋版型池（`layoutPool`）＋節拍後製，並開啟「自動變化版型」；沒有自己 `#` 標記的句子會依序從版型池輪流取版型。**使用風格包時，不要為了每句不同而替每句另寫版型。**
+- **風格包**：面板一鍵套用（19 個，新增 `金夜`、`深海`、`單色座標`），內容為調色盤＋字體＋全域底層場景（`sceneAll`）＋版型池（`layoutPool`）＋節拍後製，並開啟「自動變化版型」；沒有自己 `#` 標記的句子會依序從版型池輪流取版型。**使用風格包時，不要為了每句不同而替每句另寫版型。**

diff --git a/README.md b/README.md
@@ -138,7 +138,7 @@
 
 完整標記：`#版型+進場+退場~持續特效^位置*字體@樣式1,樣式2 主文||副文`（舊標記完全相容，不需要修改；`^位置` 見下一節）。
 
-- **@樣式**（可疊加，單句最多 3 個）：`neon` 霓虹、`glow-soft` 柔光、`outline` 空心、`chromatic` 色差、`gradient` 漸層、`longshadow` 長影、`trail` 拖影、`stamp` 蓋章、`glitch` 訊號閃爍、`karaoke` 逐字變亮。
+- **@樣式**（可疊加，單句最多 3 個）：`neon` 霓虹、`glow-soft` 柔光、`outline` 空心、`chromatic` 色差、`gradient` 漸層、`longshadow` 長影、`trail` 拖影、`stamp` 蓋章、`glitch` 訊號閃爍、`karaoke` 逐字變亮、`double-line` 二重縁、`emphasis-dot` 傍點、`gloss-sweep` 光澤掃過、`shadow-stack` 多重影、`split-tone` 上下二色。
   `karaoke` 與 `gradient` 同時使用時以 `karaoke` 為準。`stamp` 最適合單行置中的版型。
 - **||副文**：主文下方的極小裝飾行（拼音、英文、日期等），任何版型都能用。
 - 句子編輯器每一列有「樣式」與「副文」欄位，匯出 SRT 時會一併寫回。
@@ -298,7 +298,7 @@
 
 ## 風格包・場景層・後製（第二／三階段新增）
 
-- **風格包**：面板「風格包・場景層・後製」或 Ctrl+K 搜尋「風格」可一鍵套用 16 個風格包（藍色衝擊、斬擊、藍色構成、城市文字雨、夜色、波普、青墨、電腦、戰場、幾何、全息、賽博監控、情緒電影、剪影極簡、歇斯底里之夜、戒尺）。＝調色盤＋字體＋全域底層場景（`sceneAll`）＋版型池（`layoutPool`）＋節拍後製，並開啟「自動變化版型」。沒有自己標記的句子依句子順序從版型池輪流取版型；有自己 `#` 標記或 `&` 的句子照自己的。離開風格包時，它動過的欄位會還原。
+- **風格包**：面板「風格包・場景層・後製」或 Ctrl+K 搜尋「風格」可一鍵套用 19 個風格包（藍色衝擊、斬擊、藍色構成、城市文字雨、夜色、波普、青墨、電腦、戰場、幾何、全息、賽博監控、情緒電影、剪影極簡、歇斯底里之夜、戒尺、金夜、深海、單色座標）。＝調色盤＋字體＋全域底層場景（`sceneAll`）＋版型池（`layoutPool`）＋節拍後製，並開啟「自動變化版型」。沒有自己標記的句子依句子順序從版型池輪流取版型；有自己 `#` 標記或 `&` 的句子照自己的。離開風格包時，它動過的欄位會還原。
 - **一鍵清除**：面板「風格包・場景層・後製」有「清除風格包」「一鍵清除全部」，以及全域底層場景、版型池各自的「清除」；風格包下拉改回「（無風格包）」等同清除風格包。句子編輯器工具列有「清除勾選句子的場景」「清除全部句子的場景」，「＋場景」挑選窗也有「清除」。Ctrl+K 搜尋「清除」可找到全部入口。清除風格包只還原**該風格包自己定義過的欄位**（套用後你自己換的字體會保留）；句子自己的標記不會被清除風格包動到。注意兩種「清除」不同：句子的場景清空＝跟隨全域底層；`&none`＝這句明確不要場景。
 - **場景層 `&`**：`#center&halftone:60:1.5,burst 歌詞`；參數 `名稱:強度:速度:節拍連動:X偏移:Y偏移`。編輯器每句有「＋場景」挑選窗，面板有全域底層挑選。實驗室（P2／P3）場景與版型預設收合。
 - **節拍後製**：`beatShake／beatZoom／beatTilt／beatHue`；單句覆寫 `&bfx-shake:3`、`&bfx-off`。錄製時色相濾鏡自動關閉。
